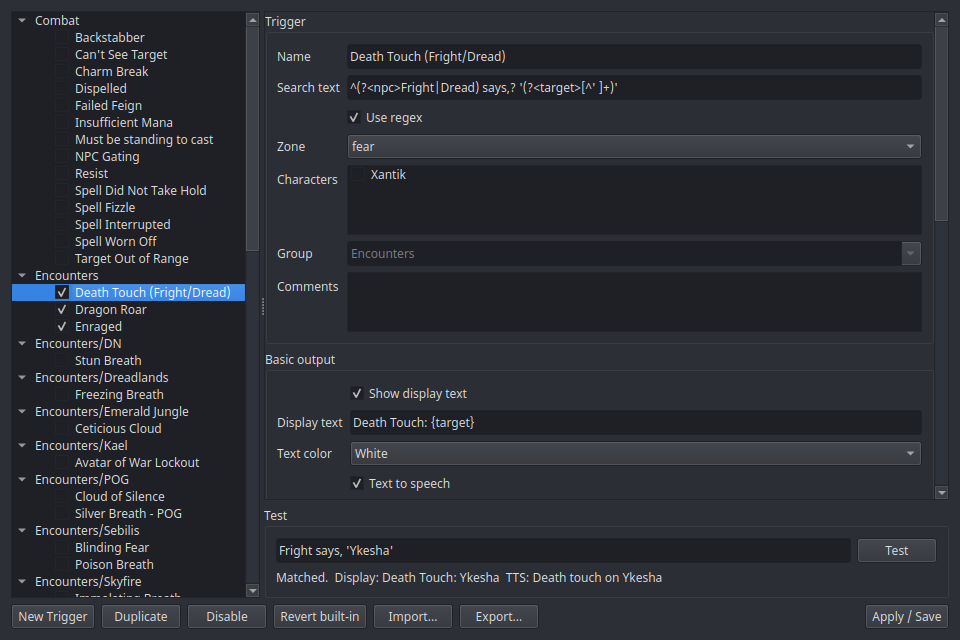
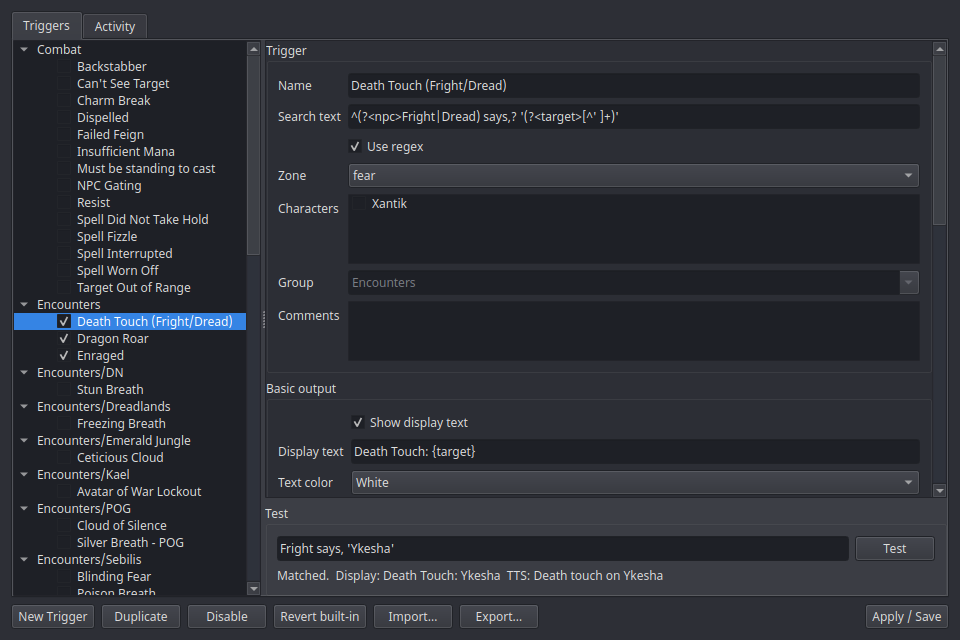
docs: document the Trigger Editor's Activity tab
Adds the tab to the Trigger Editor page with a generated screenshot, points
the GINA migration guide at it (with a concept-map row for GINA's trigger
log), and cross-references it from the triggers feature page. Adds the
window--trigger-activity capture to tools/capture_screenshots.py.

Refs #31

Claude-Session: https://claude.ai/code/session_014kRk9K8Jqqm5pCHmx3U8Db

diff --git a/tools/capture_screenshots.py b/tools/capture_screenshots.py
@@ -451,6 +451,63 @@ def cap_trigger_editor(backend, settings) -> None:
     capture(w, "window--trigger-editor", size=(960, 640))
 
 
+def cap_trigger_activity(backend, settings) -> None:
+    """The Activity tab (#31) with a few representative fires."""
+    from datetime import datetime
+
+    from PySide6.QtWidgets import QApplication
+
+    from nparseplus.core.events import TriggerFiredEvent
+    from nparseplus.ui.triggereditor import TriggerEditorWindow
+
+    w = _keep(TriggerEditorWindow(settings, backend.trigger_engine, on_save=lambda: None))
+    w.confirm_unsaved = False
+    base = datetime(2026, 7, 14, 21, 4, 6)
+    fires = [
+        dict(
+            trigger_name="Death Touch",
+            group="Encounters",
+            display_text="DEATH TOUCH on Gandalf",
+            tts_text="death touch",
+            line="Fright says, 'Ykesha'",
+        ),
+        dict(
+            trigger_name="Rampage warning",
+            group="Raid Pack / Sebilis",
+            display_text="a mycolonial guard RAMPAGE",
+            timer_name="a mycolonial guard rampage",
+            timer_seconds=30,
+            line="a mycolonial guard goes on a rampage!",
+        ),
+        dict(
+            trigger_name="Rampage warning",
+            group="Raid Pack / Sebilis",
+            phase="timer_ending",
+            display_text="Rampage in 5",
+            timer_name="a mycolonial guard rampage",
+            timer_seconds=30,
+            line="a mycolonial guard goes on a rampage!",
+        ),
+        dict(
+            trigger_name="Assist call",
+            group="Raid Pack / Velious",
+            tts_text="assist on Tunare",
+            line="Raidleader tells the raid,  'assist Tunare'",
+        ),
+    ]
+    for offset, fire in enumerate(fires):
+        w.activity.handle_event(
+            TriggerFiredEvent(
+                timestamp=base.replace(second=base.second + offset * 3),
+                trigger_id=f"demo-{offset}",
+                **fire,
+            )
+        )
+    w.tabs.setCurrentIndex(1)
+    QApplication.processEvents()
+    capture(w, "window--trigger-activity", size=(960, 480))
+
+
 def cap_settings(backend, settings) -> None:
     import nparseplus.ui.settingswindow as settingswindow
     from nparseplus.audio.tts import VoiceInfo
@@ -730,6 +787,7 @@ PHASE_A = {
     "feature--ch-chain": lambda b, s: cap_ch_chain(),
     "window--update-available": lambda b, s: cap_update_dialog(),
     "window--trigger-editor": lambda b, s: cap_trigger_editor(b, s),
+    "window--trigger-activity": lambda b, s: cap_trigger_activity(b, s),
     "settings": lambda b, s: cap_settings(b, s),  # emits all settings--*.png
 }
 

diff --git a/docs/windows/trigger-editor.md b/docs/windows/trigger-editor.md
@@ -2,7 +2,8 @@
 
 The Trigger Editor is a framed tool window for browsing, editing, and
 testing every trigger — the ~65 [built-ins](../features/builtin-triggers.md)
-and your own custom ones.
+and your own custom ones. It has two tabs: **Triggers** (the editor) and
+**Activity** (a log of what actually fired).
 
 ![The Trigger Editor](../assets/screenshots/window--trigger-editor.png)
 
@@ -32,6 +33,42 @@ Open it from the tray → **Trigger Editor**.
 - **Bottom: the test box** — *"Paste a log line…"* runs a real log line
   through the trigger's actual matching machinery and shows whether (and
   what) it would fire. Copy lines out of the [Console](console.md).
+
+## The Activity tab
+
+GINA's trigger console, with a shortcut back to the trigger. Every time a
+trigger fires, a row lands here — newest at the top:
+
+![The Activity tab](../assets/screenshots/window--trigger-activity.png)
+
+| Column | What it tells you |
+|---|---|
+| **Time** | When it fired |
+| **Trigger** | Which trigger it was |
+| **Group** | Which folder it lives in — for a GINA import, the full nested path (`Raid Pack / Sebilis`) |
+| **Action** | What it did, with tokens already filled in: the display text, the spoken phrase, the timer it started |
+| **Matched line** | The log line that set it off |
+
+**Double-click any row to open that trigger in the Triggers tab.** That's
+the point of the tab: when an imported pack fires something you didn't
+expect, you go from "what was that?" to editing the culprit in one click.
+(Right-click gives you the same jump plus **Copy matched line**.)
+
+Timer follow-ups are logged too, greyed out so the real matches stay easy
+to scan: *Timer ending*, *Timer ended*, and *Timer ended early* when an
+end-early pattern cancels a countdown — the one thing that used to make
+timer bars vanish with no explanation.
+
+The **filter** box narrows by trigger name, folder, action, or log line;
+**Pause** freezes the list while you read it; **Clear** empties it. The
+log holds the last 500 fires and is session-only — nothing is written to
+disk. It records from the moment nParse+ starts, so the history is already
+there the first time you open the window.
+
+!!! tip "A trigger you can't find"
+    A trigger that fires but shows nothing still gets a row (marked
+    *(no output)*) — that's usually the one you're hunting. And if a row's
+    trigger has since been deleted, the double-click simply does nothing.
 
 ## Editing rules
 

diff --git a/docs/dev-notes/screenshot-checklist.md b/docs/dev-notes/screenshot-checklist.md
@@ -45,6 +45,7 @@ see real context. Retina/2x captures are fine. PNG only.
 | `window--event-overlay.png` | Event Overlay | An alert text + a countdown bar over the game (fire a builtin trigger or a `StartTimer-30`). |
 | `window--console.png` | Console | The console with a dozen log lines, Pause checkbox visible. |
 | `window--trigger-editor.png` | Trigger Editor | Folder tree expanded (Built In folders + a custom folder), a trigger selected showing the form and test box. |
+| `window--trigger-activity.png` | Trigger Editor, Migrating from GINA | The Activity tab with a handful of fires: a match, a muted timer follow-up, nested GINA folder paths in the Group column. |
 | `window--spell-timers-raid.png` | Spell Timers | Raid mode (group buffs by spell): one spell header with a row per target. |
 | `window--update-available.png` | Self-updater, Updating | The update dialog: version heading, per-version release notes, View on GitHub / Later / Download buttons. |
 | ⌨ `window--discord.png` | Discord Overlay | The Discord voice overlay over the game with 2+ users, one speaking. |
@@ -81,7 +82,7 @@ window with that page selected:
 
 ## Status
 
-29 wanted, **27 captured** by `tools/capture_screenshots.py`. The 2 remaining
+30 wanted, **28 captured** by `tools/capture_screenshots.py`. The 2 remaining
 are the ⌨ (manual) rows above — `home--overview` and `window--discord` — which
 need a real display/game. Rerun the tool after a UI change to refresh the
 automated set; the site tracks reality automatically.

diff --git a/docs/migrating/from-gina.md b/docs/migrating/from-gina.md
@@ -34,6 +34,17 @@ and Linux, where GINA can't follow you.
 | Early-end / cancel patterns | Restart behavior + reset events cover the common cases |
 | Character-specific trigger sets | Zone gating per trigger, plus per-character [profiles](../settings/character.md) for everything else |
 | Shared trigger packages | [Export/import](../features/triggers.md#sharing-triggers-export-import) as JSON files — and `.gtp` packages import directly |
+| Trigger log / console | The [**Activity** tab](../windows/trigger-editor.md#the-activity-tab) in the Trigger Editor — and double-clicking a row opens the trigger that fired |
+
+## After importing a big pack
+
+Large packs are noisy, and it's rarely obvious which of a few hundred
+imported triggers just shouted at you. Open the Trigger Editor's
+[**Activity** tab](../windows/trigger-editor.md#the-activity-tab): it lists
+every fire with the trigger's name and its folder path (the same nested
+path GINA used, e.g. `Raid Pack / Sebilis`), plus the log line that set it
+off. Double-click a row to jump straight to that trigger and turn it off,
+retune it, or move it.
 
 ## Recreating a trigger, quickly
 

diff --git a/docs/features/triggers.md b/docs/features/triggers.md
@@ -113,6 +113,10 @@ bare list of trigger objects.
 
 - Grab exact log lines from the [Console](../windows/console.md) and use
   the Trigger Editor's **test box** to check matches before saving.
+- Not sure which trigger just went off? The Trigger Editor's
+  [**Activity** tab](../windows/trigger-editor.md#the-activity-tab) logs
+  every fire with its name, folder, and the line that caused it —
+  double-click a row to open that trigger.
 - Coming from GINA? See
   [Migrating from GINA](../migrating/from-gina.md) for a concept mapping
   (`{S}` → captures, Timer Behaviors → restart behavior, and so on).
